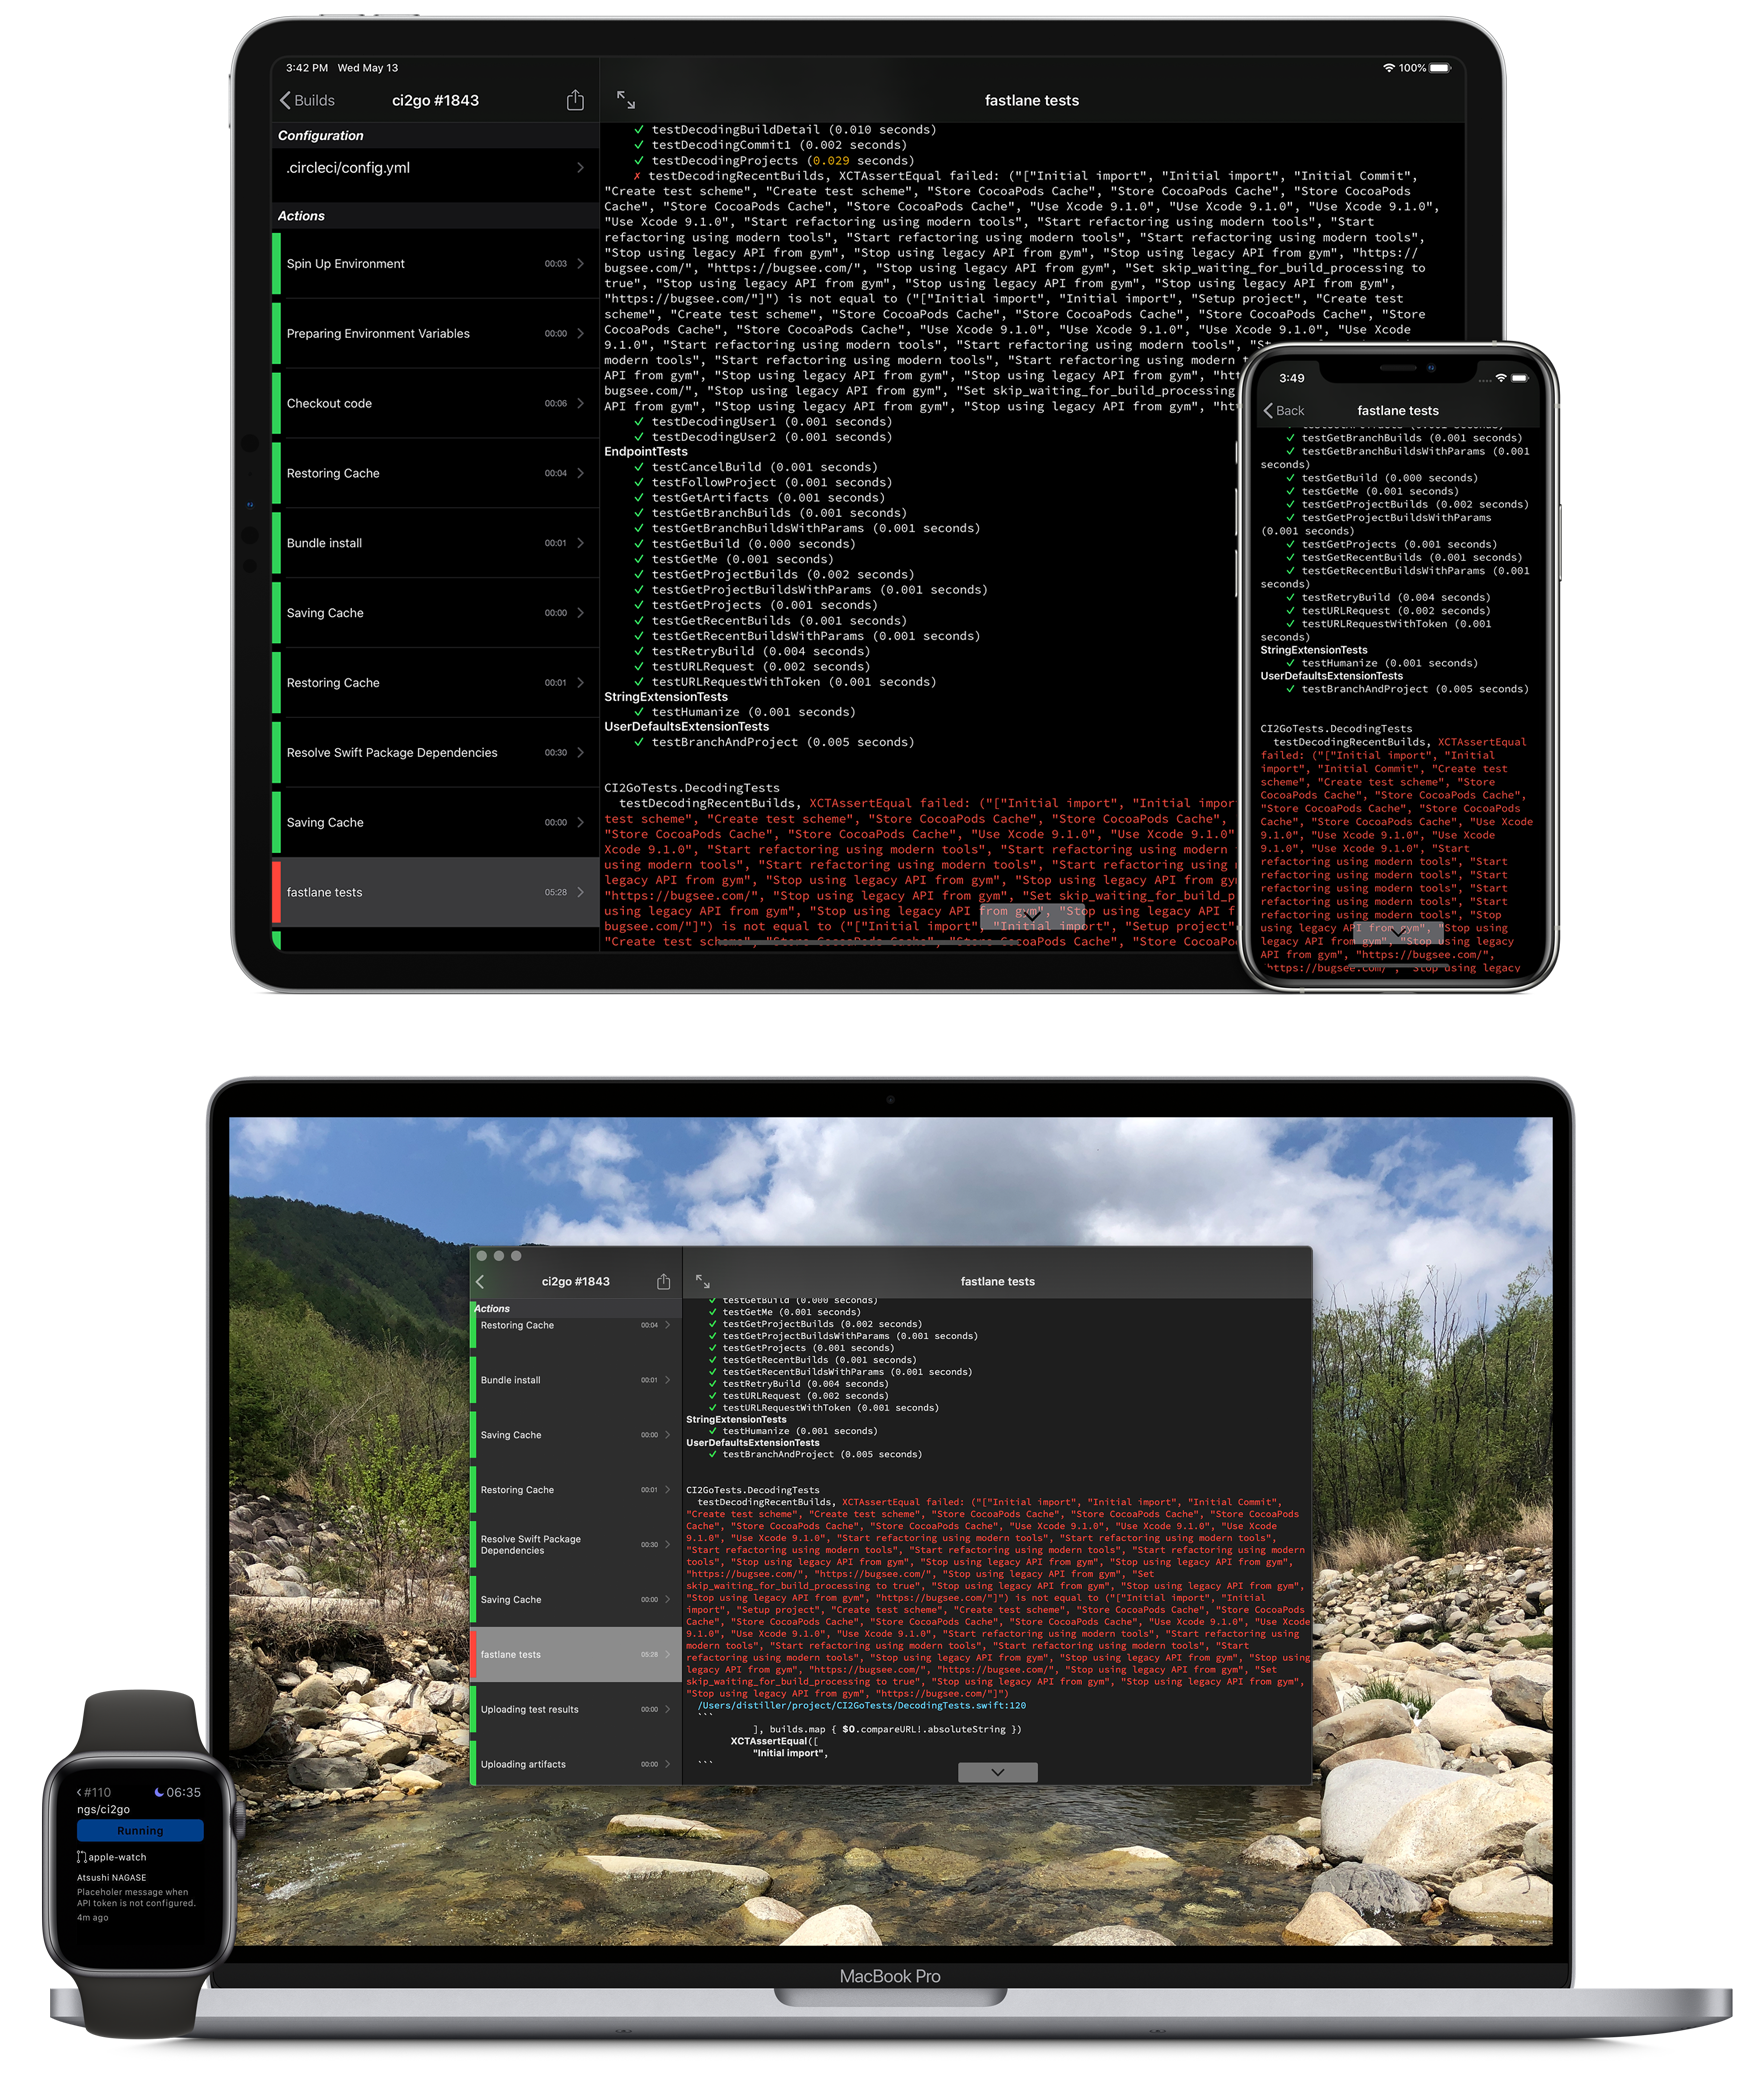
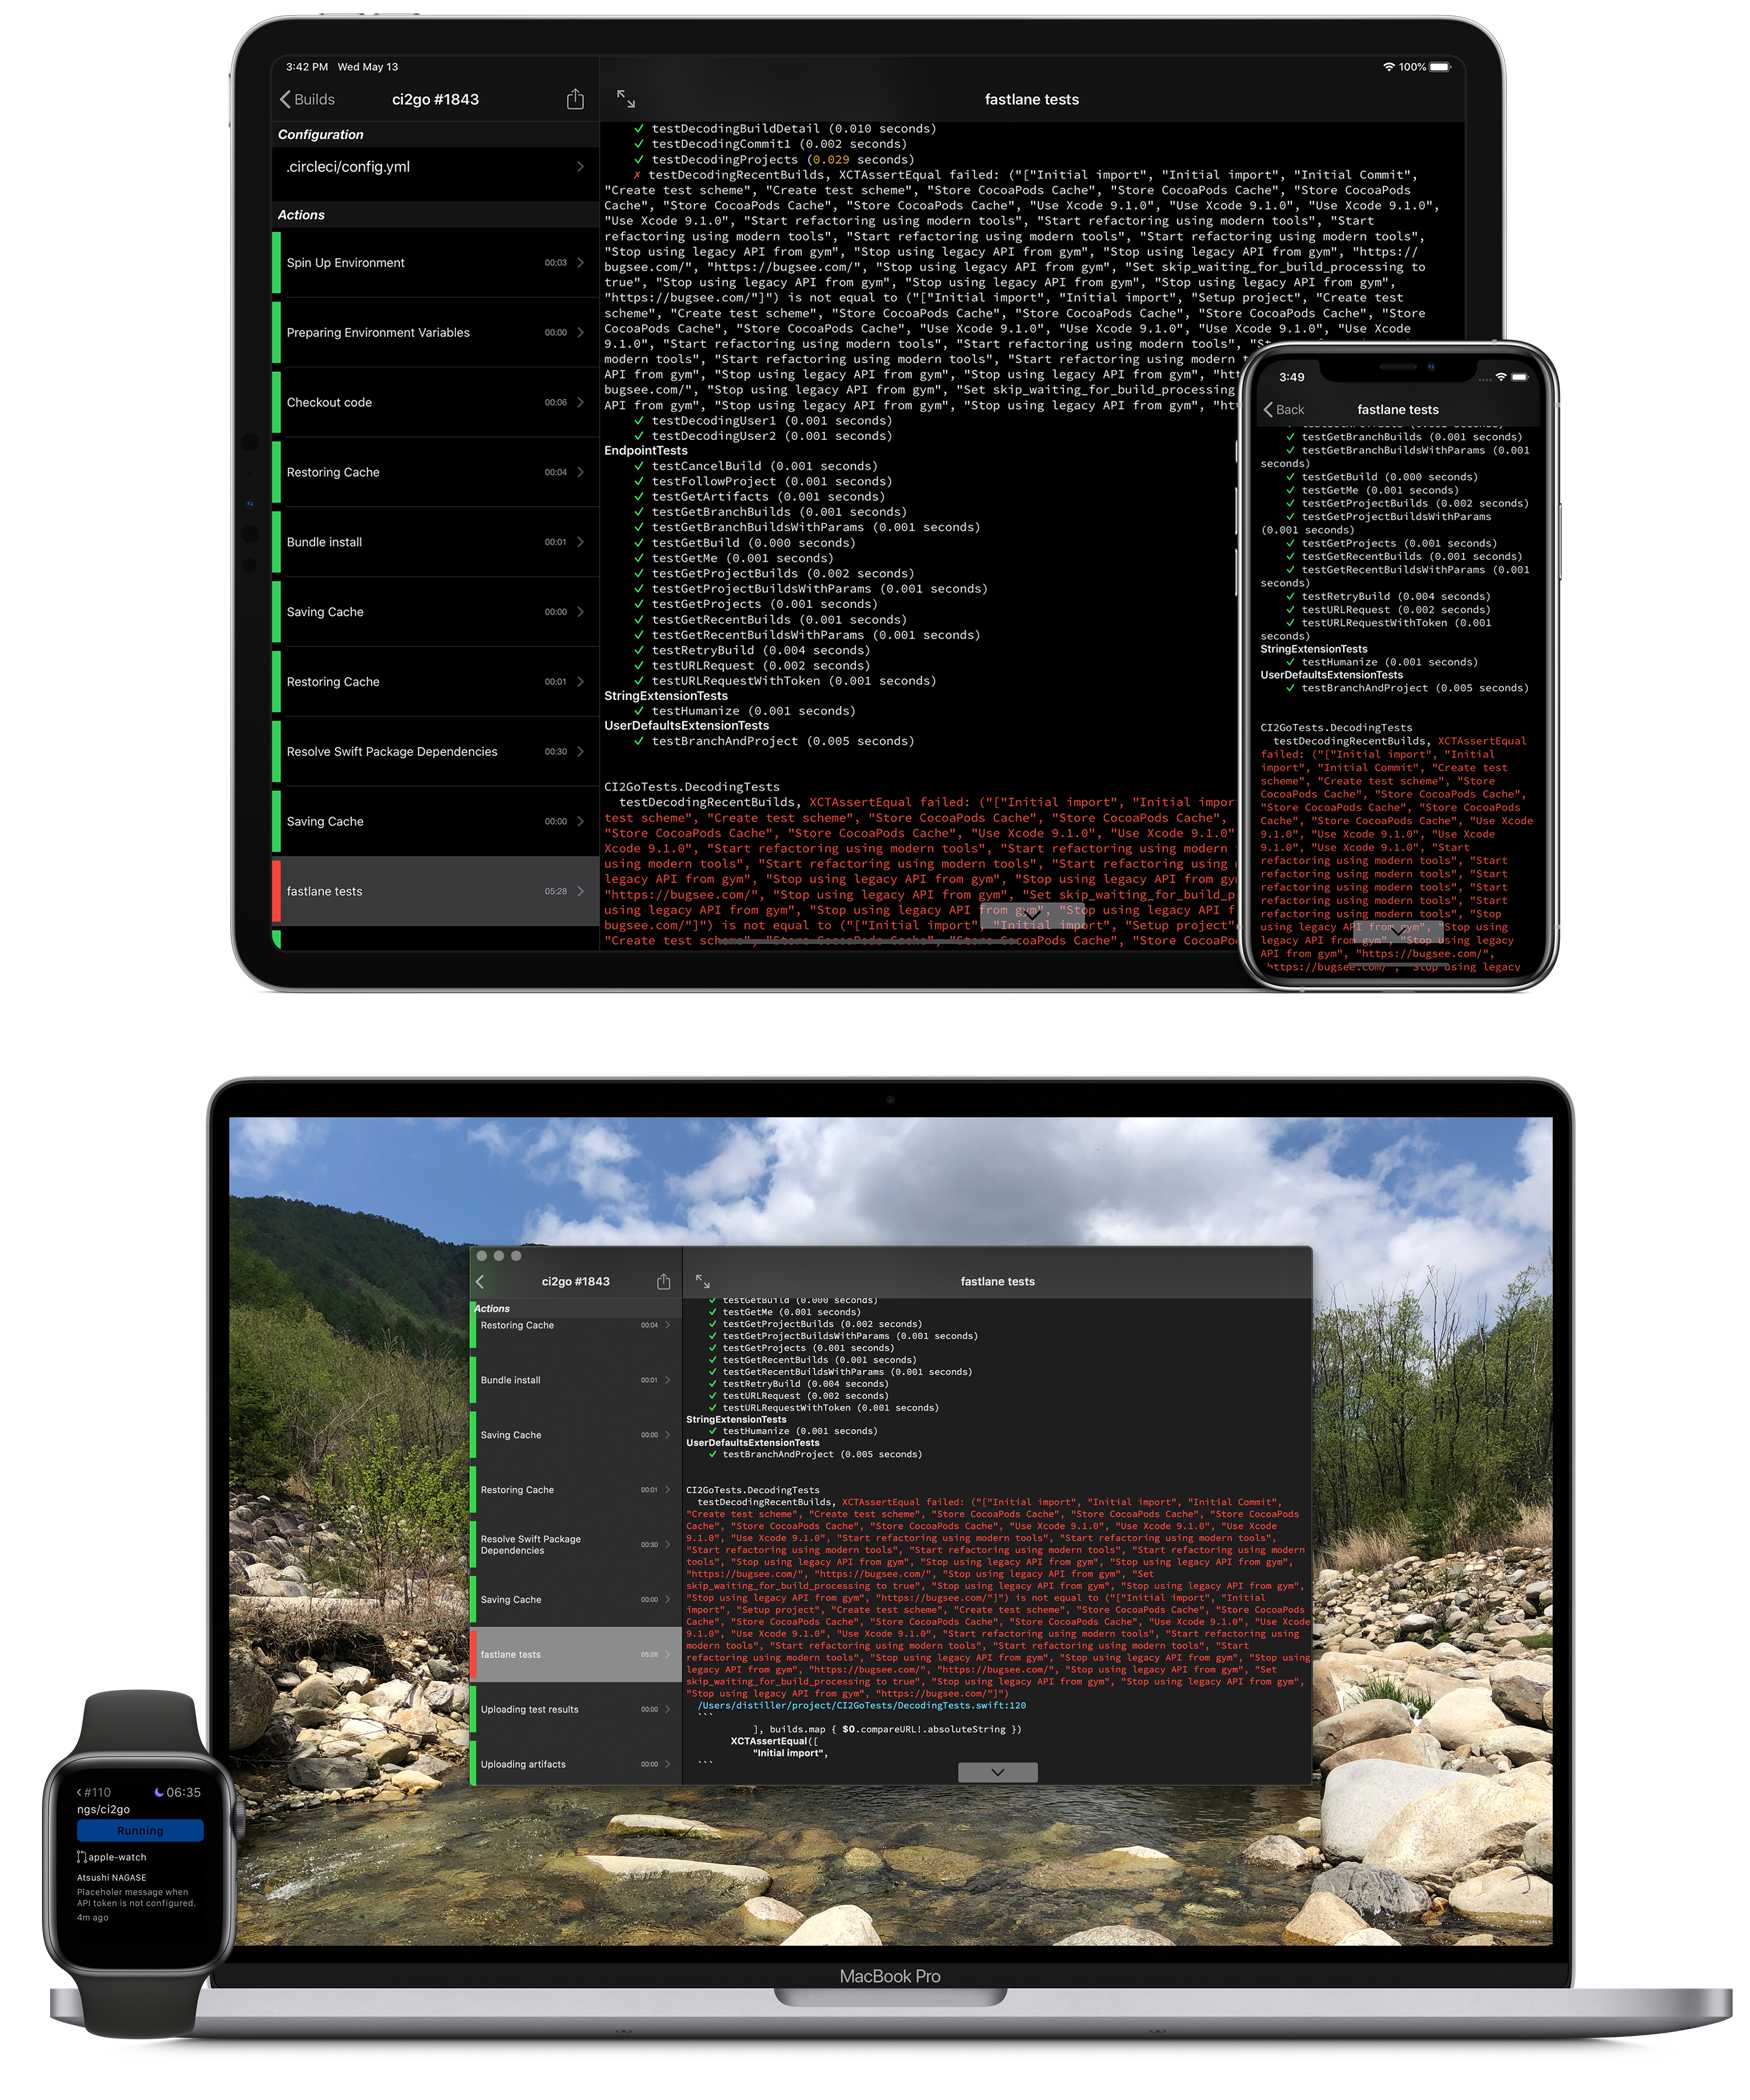
Download button

Changed region(s): [[0.3394, 0.0619, 0.8949, 0.4952], [0.1543, 0.0, 0.216, 0.0929], [0.7714, 0.0, 0.8331, 0.031]]

diff --git a/contact/index.html b/contact/index.html
@@ -9,42 +9,7 @@
     <link rel="stylesheet" href="../css/doc.css" />
     <title>Contact author of CI2Go</title>
     <script src="https://kit.fontawesome.com/1a6159dd01.js" crossorigin="anonymous"></script>
-    <script>
-      async function onSubmit(e) {
-        e.preventDefault();
-        const form = e.target;
-        const q = Object.fromEntries(
-          (document.location.search || '')
-            .replace(/^\?/, '')
-            .split('&')
-            .map(c => c.split('='))
-            .map(c => [c[0], decodeURIComponent(c[1])])
-        );
-        const { device, version } = q;
-        const data = Object.fromEntries(
-          Array.from(form.elements)
-            .filter(input => !!input.name)
-            .map(input => [input.name, input.value]));
-        const url = form.action;
-        Array.from(form.elements).forEach(input => input.disabled = true)
-        const res = await fetch(url, {
-          method: 'POST',
-          mode: 'cors',
-          headers:{
-            'Content-Type': 'application/json'
-          },
-          body: JSON.stringify({
-            ...data,
-            device,
-            version
-          })
-        })
-        Array.from(form.elements).forEach(input => input.disabled = false)
-        if (res.ok) {
-          document.getElementById('formWrap').innerHTML = '<div class="thankyou doc"><p class="h1">Thank you.</p></div>'
-        }
-      }
-    </script>
+    <script src="../js/contact-form.js"></script>
     <!-- Global site tag (gtag.js) - Google Analytics -->
     <script async src="https://www.googletagmanager.com/gtag/js?id=UA-56666052-4"></script>
     <script>

diff --git a/js/download-button.js b/js/download-button.js
@@ -1,0 +1,33 @@
+(async function() {
+  if (navigator.userAgent.indexOf('Mac OS X 10_15_') === -1) return;
+  const updateButton = (({ url, version, size }) => {
+    Array.from(document.querySelectorAll('.direct-link a')).forEach(link => {
+      link.setAttribute('href', url);
+      link.innerHTML = `<i class="far fa-cloud-download"></i>&nbsp;Download&nbsp;&nbsp;<span class="badge">${version} / ${Math.floor(size / 100000) / 10}MB</span>`;
+      link.parentNode.setAttribute('class', 'direct-link d-none d-md-inline-block d-lg-inline-block d-xl-inline-block')
+    });
+  })
+  
+  const cookieKey = '_dlbutton';
+  const m = document.cookie.match(new RegExp(`${cookieKey}=([^;]+)`));
+
+  if (m) {
+    updateButton(JSON.parse(atob(m[1])));
+    return;
+  }
+  
+  const res = await fetch('https://api.github.com/repos/ngs/ci2go/releases?sort=created&direction=desc');
+  const json = await res.json();
+  const release = json.filter(({tag_name}) => /^v\d+\.\d+\.\d+$/.test(tag_name))[0];
+  if (!release) return;
+  const asset = release.assets.find(({name}) => name === 'CI2Go.app.zip');
+  if (!asset) return;
+  const expires = new Date(new Date().getTime() + 3600000);
+  const data = {
+    url: asset.browser_download_url,
+    version: release.tag_name,
+    size: asset.size
+  };
+  document.cookie = `${cookieKey}=${btoa(JSON.stringify(data))};expires=${expires.toGMTString()};path=/`
+  updateButton(data);
+})();

diff --git a/support/token-uri-scheme/index.html b/support/token-uri-scheme/index.html
@@ -9,33 +9,6 @@
     <link rel="stylesheet" href="../../css/doc.css">
     <title>Trouble signing in to CI2Go?</title>
     <script src="https://kit.fontawesome.com/1a6159dd01.js" crossorigin="anonymous"></script>
-    <script>
-      function onSubmit(e) {
-        e.preventDefault();
-        var form = e.target
-            , token = form.token.value
-          , valid = /^[a-f0-9]{40}$/.test(token)
-          , uri
-          , qr
-          ;
-        if (!valid) {
-          alert('Please input valid API token');
-          return;
-        }
-        uri = 'ci2go://ci2go.app/token/' + token
-        try {
-          document.location = uri;
-        } catch(e) {
-          console.error(e);
-        }
-        qr = qrcode(4, 'L');
-        qr.addData(uri);
-        qr.make();
-        document.getElementById('qrcode').innerHTML = qr.createImgTag(5);
-        document.getElementById('qr').style.visibility = 'visible';
-        document.location.href = '#qr';
-      }
-  </script>
   <!-- Global site tag (gtag.js) - Google Analytics -->
   <script async src="https://www.googletagmanager.com/gtag/js?id=UA-56666052-4"></script>
   <script>
@@ -87,5 +60,6 @@
       </footer>
     </div>
     <script src="https://cdnjs.cloudflare.com/ajax/libs/qrcode-generator/1.4.3/qrcode.min.js"></script>
+    <script src="../../js/token-uri-scheme.js"></script>
   </body>
 </html>

diff --git a/js/contact-form.js b/js/contact-form.js
@@ -1,0 +1,39 @@
+async function onSubmit(e) {
+  e.preventDefault();
+  const form = e.target;
+  const q = Object.fromEntries(
+    (document.location.search || '')
+      .replace(/^\?/, '')
+      .split('&')
+      .map(c => c.split('='))
+      .map(c => [c[0], decodeURIComponent(c[1])])
+  );
+  const { device, version } = q;
+
+  const data = Object.fromEntries(
+    Array.from(form.elements)
+      .filter(input => !!input.name)
+      .map(input => [input.name, input.value]));
+
+  const url = form.action;
+
+  Array.from(form.elements).forEach(input => input.disabled = true);
+
+  const res = await fetch(url, {
+    method: 'POST',
+    mode: 'cors',
+    headers:{
+      'Content-Type': 'application/json'
+    },
+    body: JSON.stringify({
+      ...data,
+      device,
+      version
+    })
+  })
+  Array.from(form.elements).forEach(input => input.disabled = false)
+
+  if (res.ok) {
+    document.getElementById('formWrap').innerHTML = '<div class="thankyou doc"><p class="h1">Thank you.</p></div>'
+  }
+}

diff --git a/css/common.css b/css/common.css
@@ -27,6 +27,26 @@ footer {
   padding: 5em 0;
 }
 
+.btn-scheme {
+  color: #242424;
+  background-color: #f0f0f0;
+  border-color: #242424;
+}
+
+.btn-scheme .badge {
+  background-color: #242424;
+  color: #f0f0f0;
+}
+
+.btn-scheme:hover {
+  color: #666;
+  border-color: #666;
+}
+
+.btn-scheme:hover .badge {
+  background-color: #666;
+}
+
 @media (prefers-color-scheme: dark) {
   body {
     background-color: #333;
@@ -38,5 +58,21 @@ footer {
   svg.logo path,
   svg.logo ellipse {
     fill: #f0f0f0;
+  }
+  .btn-scheme {
+    color: #ccc;
+    background-color: #333;
+    border-color: #ccc;
+  }
+  .btn-scheme:hover {
+    color: #999;
+    border-color: #999;
+  }
+  .btn-scheme .badge {
+    background-color: #ccc;
+    color: #333;
+  }
+  .btn-scheme:hover .badge {
+    background-color: #999;
   }
 }

diff --git a/index.html b/index.html
@@ -72,6 +72,10 @@
               <img src="img/appstore-white.svg" alt="Download on the App Store">
             </picture>
           </a>
+          <span class="direct-link d-none">
+            <span class="or text-muted">&nbsp;or&nbsp;</span>
+            <a href="#" class="btn btn-scheme btn-sm"></a>
+          </span>
         </p>
         <p>
           <a class="github-button" href="https://github.com/ngs/ci2go" data-color-scheme="no-preference: light; light: light; dark: dark;" data-size="large" data-show-count="true" aria-label="Star ngs/ci2go on GitHub">Star</a>
@@ -96,5 +100,6 @@
       </footer>
     </div>
     <script async defer src="https://buttons.github.io/buttons.js"></script>
+    <script async defer src="./js/download-button.js"></script>
   </body>
 </html>

diff --git a/js/token-uri-scheme.js b/js/token-uri-scheme.js
@@ -1,0 +1,25 @@
+function onSubmit(e) {
+  e.preventDefault();
+  var form = e.target
+      , token = form.token.value
+    , valid = /^[a-f0-9]{40}$/.test(token)
+    , uri
+    , qr
+    ;
+  if (!valid) {
+    alert('Please input valid API token');
+    return;
+  }
+  uri = 'ci2go://ci2go.app/token/' + token
+  try {
+    document.location = uri;
+  } catch(e) {
+    console.error(e);
+  }
+  qr = qrcode(4, 'L');
+  qr.addData(uri);
+  qr.make();
+  document.getElementById('qrcode').innerHTML = qr.createImgTag(5);
+  document.getElementById('qr').style.visibility = 'visible';
+  document.location.href = '#qr';
+}
